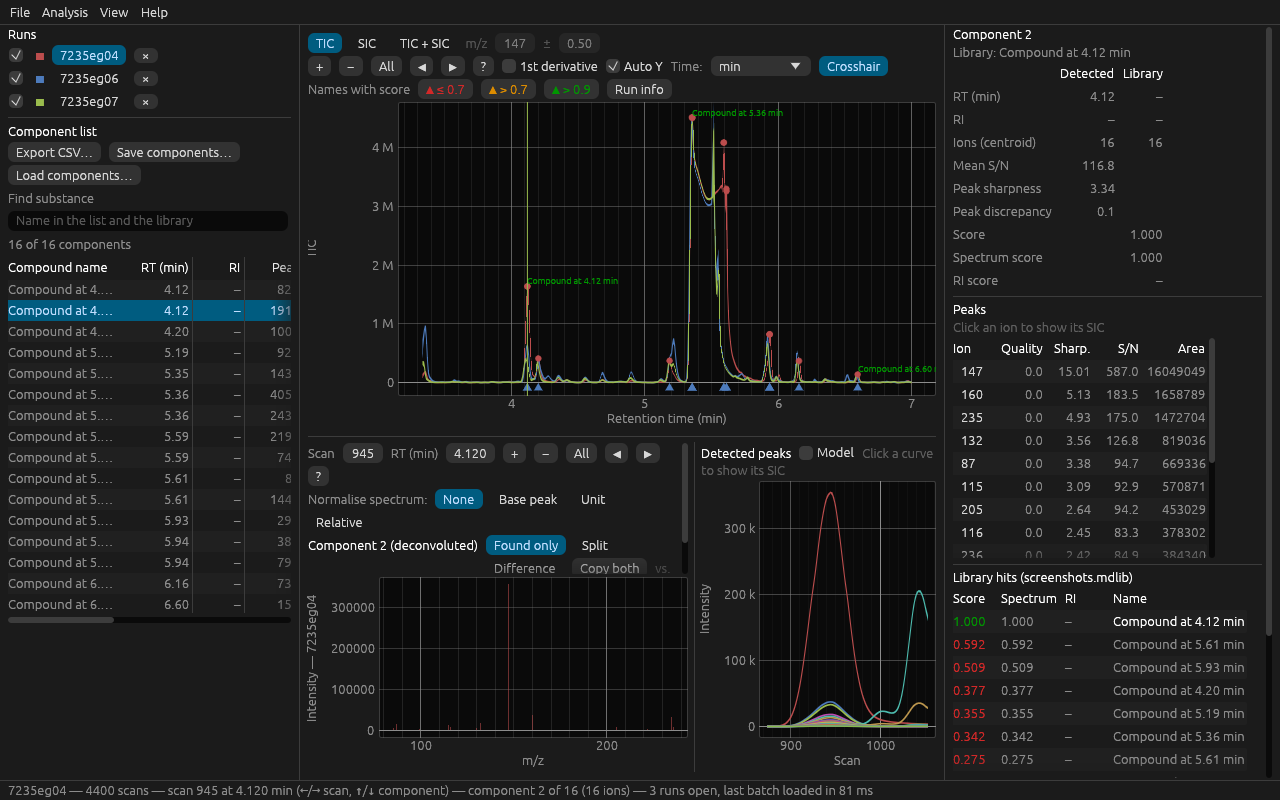
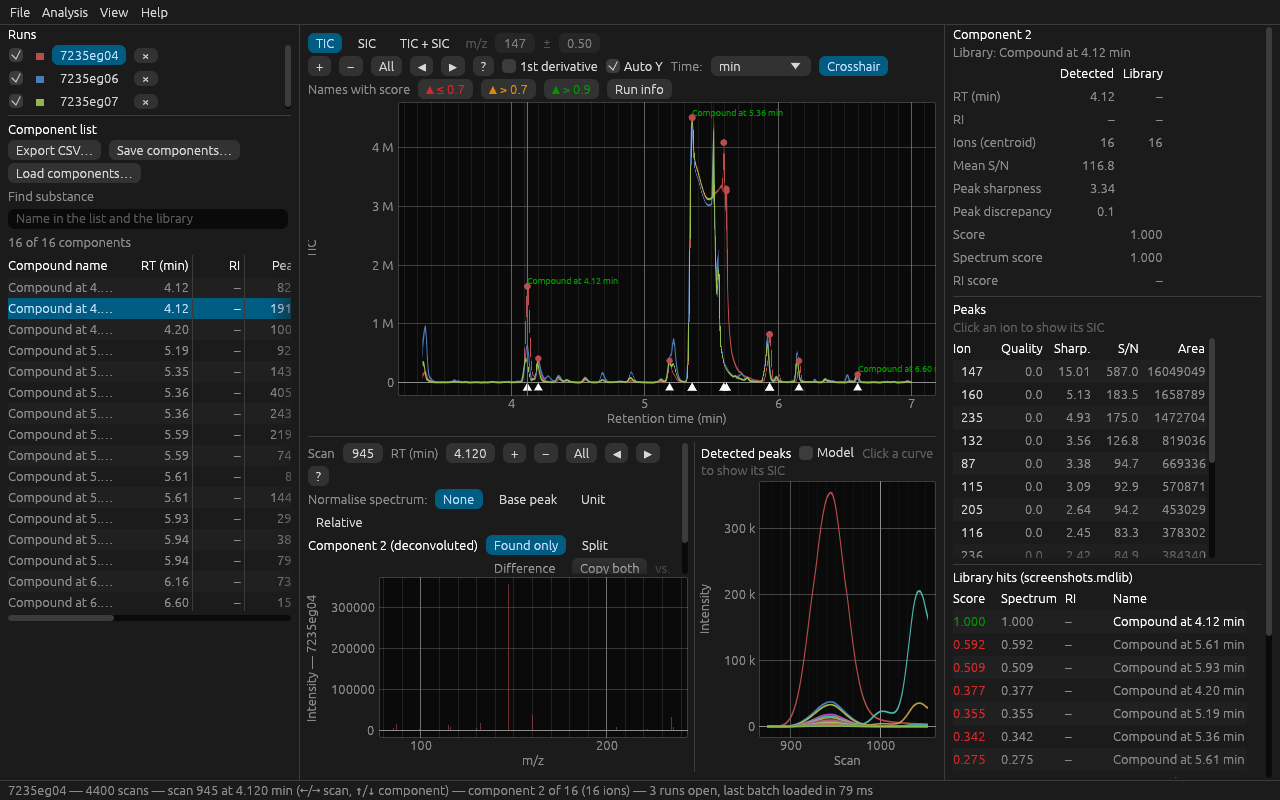
Review: Zoom nur einmal bei TIC + SIC, Dreiecke ohne Rueckkopplung bei Auto Y aus (#243)
Die Zoom- und Verschiebe-Knoepfe wirken nur im ersten Plot; die Achsen sind
verknuepft und gaben die Aenderung weiter, sodass sie doppelt galt. Ohne Auto Y
sitzen die Dreiecke auf dem kleinsten Messwert, damit sie die Achse nicht
Bild fuer Bild nach unten ziehen. Dreiecke in neutraler Farbe, DESIGN.md
nennt Dreiecke und die Ausnahme der Score-Schalter.

diff --git a/crates/md-app/src/central.rs b/crates/md-app/src/central.rs
@@ -77,12 +77,13 @@ const LABEL_GAP_PX: f32 = 6.0;
 /// A click this close to a component apex (along the time axis) selects the component.
 const SNAP_PX: f64 = 10.0;
 
-/// One chromatogram plot with a line per run and `marks` as dots, unzoomed when `reset`; returns
+/// One chromatogram plot with a line per run and `marks` as dots, unzoomed when `reset`, moved by `nav`
+/// (only in one of two linked plots: the link hands the change to the other); returns
 /// the clicked retention time and the snap radius `SNAP_PX`, both in minutes.
 #[allow(clippy::too_many_arguments)]
 fn trace_plot(
     ui: &mut egui::Ui,
-    (id, reset): (&str, bool),
+    (id, reset, nav): (&str, bool, Option<Nav>),
     label: &str,
     height: f32,
     runs: &[Run],
@@ -92,6 +93,8 @@ fn trace_plot(
     marks: &[[f64; 2]],
     labels: &[identify::Label],
 ) -> Option<(f64, f64)> {
+    // Neither a run colour nor the dots' red, so the triangles stand out from the lines.
+    let marker = ui.visuals().strong_text_color();
     let link = egui::Id::unique("chromatograms");
     let mut plot = Plot::new(id);
     if reset {
@@ -124,7 +127,7 @@ fn trace_plot(
                     p.line(Line::new(run.name.as_str(), points).color(color(i)));
                 }
             }
-            if let Some(nav) = view.nav {
+            if let Some(nav) = nav {
                 nav.apply(p);
             }
             let b = p.plot_bounds();
@@ -143,7 +146,12 @@ fn trace_plot(
                     Points::new("components", marks.iter().map(at).collect::<Vec<_>>()).radius(3.0),
                 );
                 // Triangles on the x axis: bigger click targets than the dots.
-                let y = y_lo + 8.0 * (y_hi - y_lo) / p.response().rect.height().max(1.0) as f64;
+                // With Auto Y off and the plot fitting its items itself, a triangle below the data
+                // would lower the range every frame, so it sits on the lowest data point.
+                let y = match y_span {
+                    Some((low, _)) if !view.auto_y && p.auto_bounds().y => low,
+                    _ => y_lo + 8.0 * (y_hi - y_lo) / p.response().rect.height().max(1.0) as f64,
+                };
                 let tri = marks
                     .iter()
                     .map(|m| [view.time(m[0]), y])
@@ -151,7 +159,8 @@ fn trace_plot(
                 p.points(
                     Points::new("components", tri)
                         .shape(egui_plot::MarkerShape::Up)
-                        .radius(5.0),
+                        .radius(5.0)
+                        .color(marker),
                 );
             }
             // Hide overlapping names, best score first (3.3 does the same).
@@ -372,7 +381,7 @@ impl App {
             };
             clicked = trace_plot(
                 ui,
-                ("tic", reset),
+                ("tic", reset, self.view.nav),
                 &self.derivative_label("TIC".into()),
                 height,
                 &self.runs,
@@ -388,7 +397,11 @@ impl App {
             let label = self.derivative_label(label);
             let sic = trace_plot(
                 ui,
-                ("sic", reset),
+                (
+                    "sic",
+                    reset,
+                    self.view.nav.filter(|_| self.trace == Trace::Sic),
+                ),
                 &label,
                 height,
                 &self.runs,

diff --git a/DESIGN.md b/DESIGN.md
@@ -162,7 +162,7 @@ shadows or layering.
 ## Shapes
 
 Small, quiet corners: 4 px on static widgets, 6 px on controls, windows and menus. Plot markers are filled circles
-(component apexes, radius 3). The run swatch is a filled square.
+(component apexes, radius 3) with a filled triangle on the time axis (radius 5, a larger click target). The run swatch is a filled square.
 
 ## Components
 
@@ -174,7 +174,8 @@ Small, quiet corners: 4 px on static widgets, 6 px on controls, windows and menu
 
 ### Toggles (selectable values)
 - TIC / SIC / TIC + SIC and None / Base peak / Unit / Relative: text-only, selected one filled with
-  Selection Blue.
+  Selection Blue. The score triangles (▲ ≤ 0.7, > 0.7, > 0.9) are the exception: on shows the colour of the
+  names they switch, off greys the text, because Selection Blue behind orange or green text reads badly.
 
 ### Inputs
 - DragValues for numbers (with sensible ranges), single-line text edits with hint text showing an
